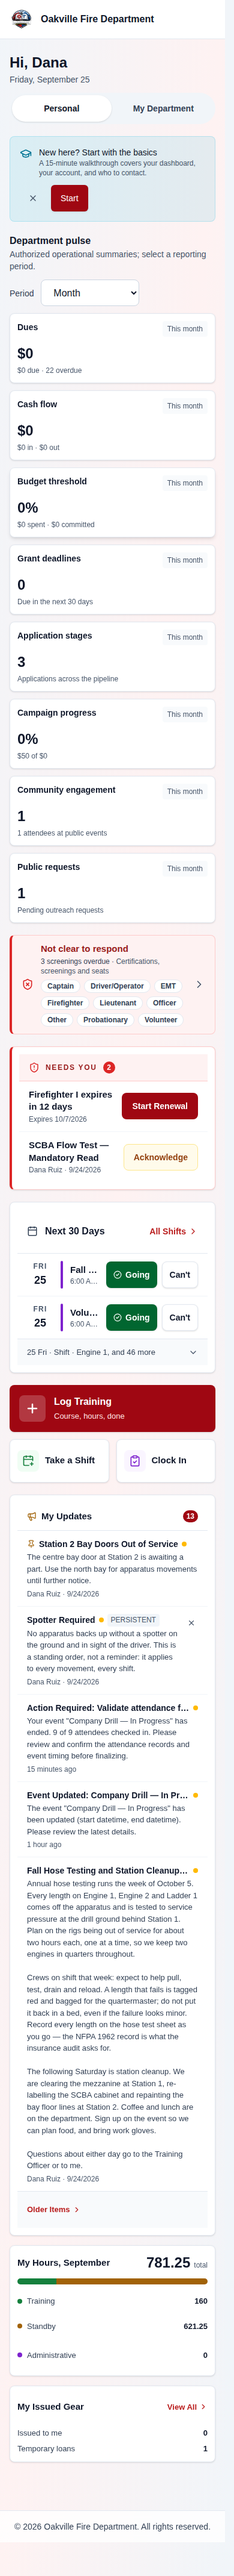
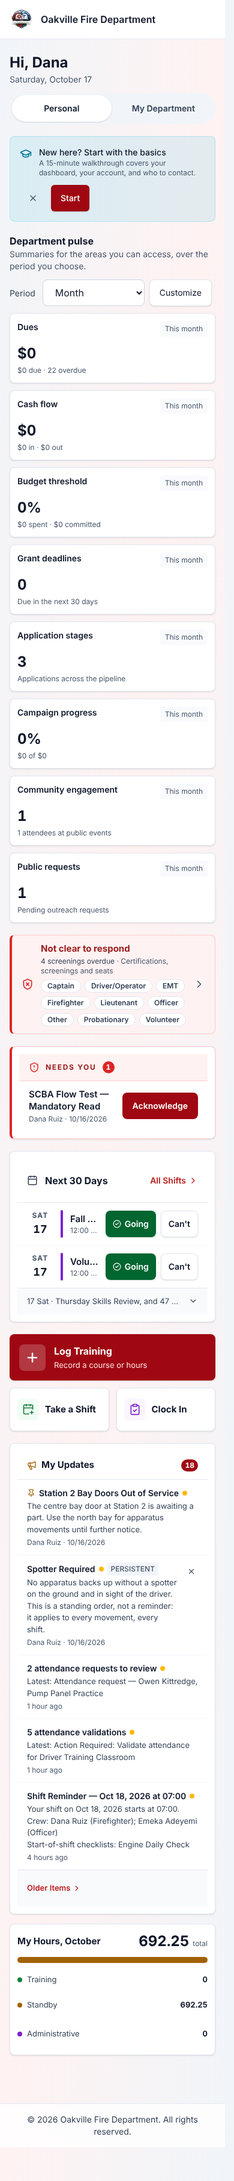
Guide 10: phone drawer, phone bar setting, held offline items
New shots for the phone navigation drawer and its scroll hint, the Phone
navigation bar setting, and the held-offline-items notice with its
confirmation. The phone dashboard, Inventory hub and header are re-shot;
the header's alt text no longer describes a menu button.

Claude-Session: https://claude.ai/code/session_01BZV8sgzbwGzZNz8nqZAgnA

diff --git a/docs/training/10-mobile-pwa.md b/docs/training/10-mobile-pwa.md
@@ -190,11 +190,9 @@ Selecting it takes you to your dashboard. **There is no menu button in the top
 bar.** To open the full navigation menu, select **More** on the bottom bar.
 Tap outside the menu to close it.
 
-![Phone header with the menu button at the left edge and the department name beside it](./images/10-13-mobile-header-menu.png)
+![Phone header with the department logo and name, and no menu button](./images/10-13-mobile-header-menu.png)
 
-<!-- Screenshot needed:
-_[Administrator (long menu) at /dashboard in a 390×844 phone viewport: bottom-bar More tapped so the navigation drawer is open and not yet scrolled, with the bottom fade and the More pill with its arrow visible above the drawer footer.]_
--->
+![The administrator's navigation drawer at 390px, opened from More on the bottom bar and not yet scrolled: the list fades at its foot, with the More pill and its down arrow above the theme and logout controls](./images/10-25-drawer-open-scroll-hint.png)
 
 A long menu does not always look long on a phone, because phones hide
 scrollbars until you scroll. When there are more items below, the bottom of
@@ -202,9 +200,7 @@ the menu fades and a small **More** button with a down arrow appears. Select it
 to scroll the list down. On a computer the side menu has an ordinary
 scrollbar instead.
 
-<!-- Screenshot needed:
-_[The navigation drawer open on a 390px phone as an officer, with items below the fold: the fade at the bottom edge and the floating **More** chevron.]_
--->
+![The menu list in the open drawer, clipped: items continue below the fold, the last visible rows fade out and the floating More button with its bouncing chevron sits over them](./images/10-26-drawer-more-chevron.png)
 
 ### Notification Badges on a Phone
 
@@ -274,9 +270,7 @@ always first, so it is not in the lists.
   the department's Organization Settings. Officers who manage those reach them
   from **More**.
 
-<!-- Screenshot needed:
-_[My Account → Appearance on a 390px phone, scrolled to **Phone navigation bar**: the **Left of Add** and **Right of Add** selects (one set to Training), the **Use the default tabs** link, and the bottom bar beneath showing the chosen tab.]_
--->
+![My Account, Appearance, at 390px as a member: Phone navigation bar with Right of Add set to Training, the Use the default tabs link, and the bottom bar beneath carrying the Training tab](./images/10-27-phone-nav-bar-setting.png)
 
 ---
 
@@ -705,9 +699,9 @@ There are two buttons, each with a confirmation:
   Whoever saved them is not told.
 - **Keep on hold**, in either confirmation, leaves things as they are.
 
-<!-- Screenshot needed:
-_[Member signed in on a device with two or three held offline items (seed untagged entries in IndexedDB): the yellow "N offline items are on hold" notice at the top of the app with its Send as me and Discard buttons; a second frame with the "Send these as yours?" confirmation open. Do not confirm.]_
--->
+![At 390px as a member: the yellow notice at the top of the app saying three offline items are on hold, saved before this device recorded who saved them, with Send as me and Discard](./images/10-28-held-offline-notice.png)
+
+![The Send these as yours? confirmation over the held-items notice, warning that the device cannot tell who saved them, with Keep on hold and Send as me](./images/10-29-held-offline-confirm.png)
 
 ---
 
